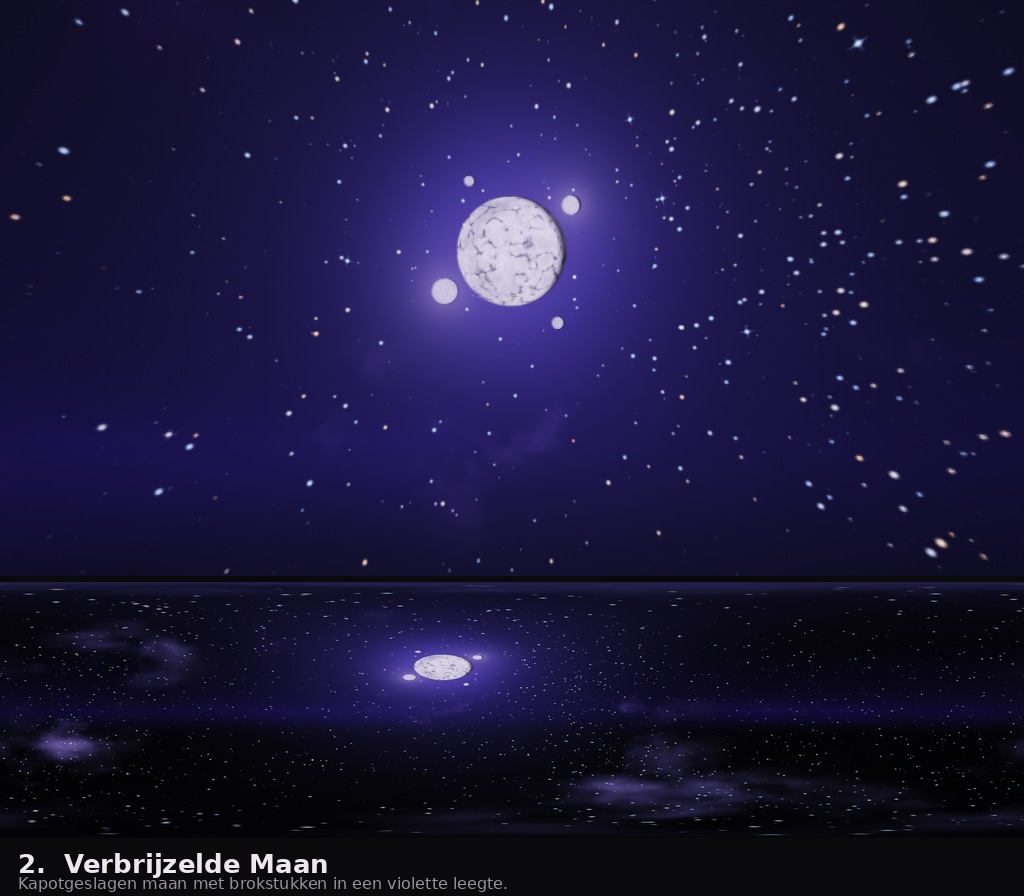
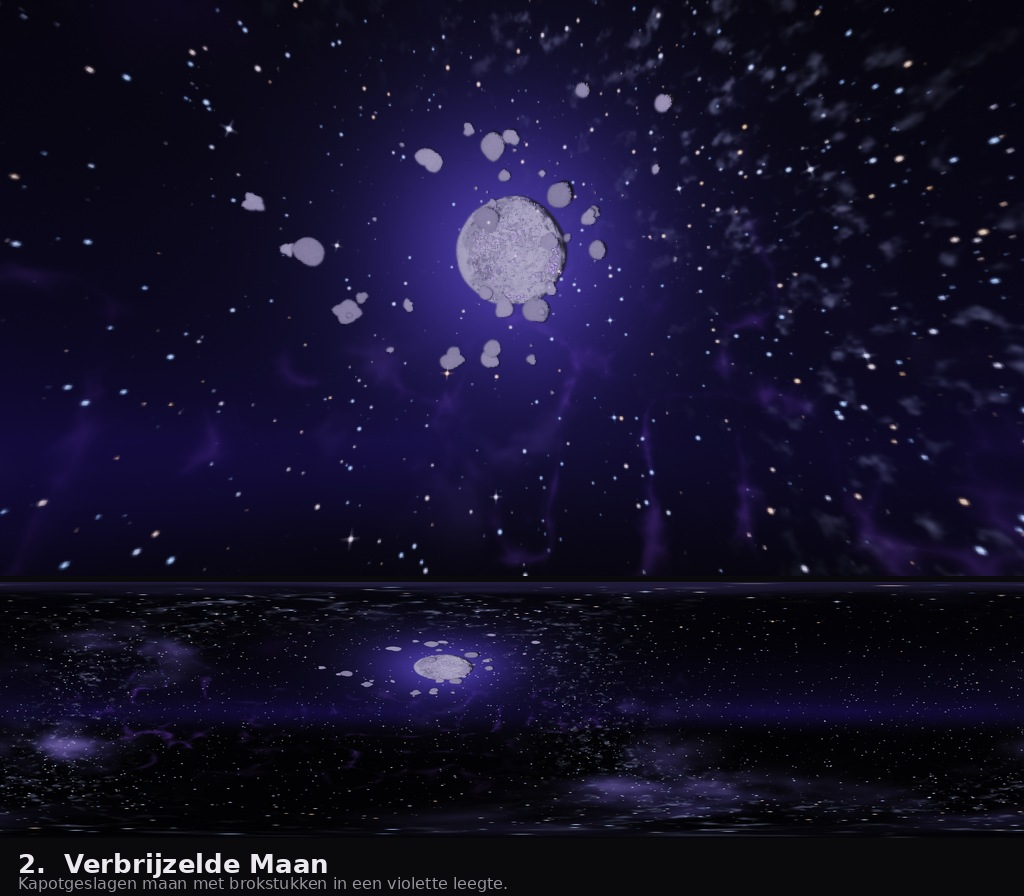
Flesh out the shattered moon sky and ship its cube faces
Detail work on the chosen concept, and the shading it needed:

* Moons get bump-mapped relief from a height field gradient, so craters
  are lit rather than painted. Two things had to be right: the finite
  difference step must stay inside one cell of the finest octave (a wider
  step samples uncorrelated noise and yields per-pixel speckle), and the
  height field needs a low gain or every octave contributes the same slope
  and the surface reads as sand.
* debris_field scatters chunks around a broken moon. They are ordinary
  moon dicts, so they inherit the lighting and relief, with faceted
  outlines from a linearly interpolated radius ring rather than a sum of
  sines. Their distances are measured from the moon's centre, so the inner
  radius has to clear the moon's own disc or the chunks land on its face.
* The broken body keeps light bleeding out through its fissures, and its
  exposure came down so the relief is not washed into flat white.
* Finer nebula wisps, unresolved-star grain inside the galactic band, and
  a second set of dust lanes breaking up the first.

Ships previews/shattered/ as six 1024px cube faces plus the panorama. The
seam test still passes on all twelve edges.

Claude-Session: https://claude.ai/code/session_01GdizL2WWVFGAuWhFgQQ98u

diff --git a/minecraft_sky/sky_generator.py b/minecraft_sky/sky_generator.py
@@ -233,21 +233,50 @@ def shade_nebula(col, d, cfg, aa, over=False):
     return col
 
 
+def _silhouette(phi, seed, amount, harmonics=8, facets=0):
+    """Wobble the radius of a disc so it reads as a rock, not a circle.
+
+    ``facets`` interpolates linearly between a ring of random radii, which
+    leaves straight edges and sharp corners - what broken rock looks like.
+    Without it the outline is a sum of sines: smooth lumps, right for a
+    body big enough for gravity to have rounded it off.
+    """
+    rng = np.random.default_rng(seed)
+    if facets:
+        radii = rng.uniform(-1.0, 1.0, facets).astype(np.float32)
+        k = (phi / (2 * np.pi) + 0.5) * facets
+        i0 = np.floor(k).astype(np.int32) % facets
+        t = k - np.floor(k)
+        return amount * (radii[i0] * (1 - t) + radii[(i0 + 1) % facets] * t)
+
+    out = np.zeros_like(phi)
+    weight = 0.0
+    for k in range(2, 2 + harmonics):
+        amp = rng.uniform(0.45, 1.0) / (k - 1) ** 0.6
+        out += amp * np.sin(k * phi + rng.uniform(0.0, 2 * np.pi))
+        weight += amp
+    return amount * out / weight
+
+
 def shade_moon(col, d, moon, aa):
     md = normalize(moon["dir"])
-    c = np.clip(d @ md, -1.0, 1.0)
-    ang = np.arccos(c)
+    c = d @ md
     r = math.radians(moon["radius"])
-
     glow = moon.get("glow", 0.0)
+
+    # Everything this moon can touch lies within `reach`. Most row blocks are
+    # nowhere near it, and skipping them is what makes a debris field of
+    # dozens of chunks affordable.
+    reach = r * (moon.get("glow_size", 6.0) * 2.6 if glow else 2.0) + 4 * aa
+    if float(c.max()) < math.cos(min(reach, math.pi)):
+        return col
+
+    ang = np.arccos(np.clip(c, -1.0, 1.0))
+
     if glow:
         halo = np.exp(-((ang / (r * moon.get("glow_size", 6.0))) ** 1.6)) * glow
         halo += np.exp(-((ang / (r * 1.8)) ** 2)) * glow * 1.7
         col += halo[..., None] * srgb_to_linear(moon.get("glow_color", moon["color"]))
-
-    disc = smoothstep(r + aa, r - aa, ang)
-    if not np.any(disc > 0.001):
-        return col
 
     up = np.array([0.0, 1.0, 0.0], np.float32)
     if abs(float(md @ up)) > 0.95:
@@ -256,12 +285,50 @@ def shade_moon(col, d, moon, aa):
     vax = np.cross(md, uax)
 
     sr = math.sin(r)
-    u = np.clip((d @ uax) / sr, -1.0, 1.0)
-    v = np.clip((d @ vax) / sr, -1.0, 1.0)
-    nz = np.sqrt(np.clip(1.0 - u * u - v * v, 0.0, 1.0))
-    nrm = uax * u[..., None] + vax * v[..., None] + md * nz[..., None]
+    u = (d @ uax) / sr
+    v = (d @ vax) / sr
 
-    shade = np.ones_like(u)
+    rad = 1.0
+    if moon.get("irregular"):
+        rad = 1.0 + _silhouette(np.arctan2(v, u), moon["seed"],
+                                moon["irregular"],
+                                facets=moon.get("facets", 0))
+
+    disc = smoothstep(r * rad + aa, r * rad - aa, ang)
+    if not np.any(disc > 0.001):
+        return col
+
+    un = np.clip(u / rad, -1.0, 1.0)
+    vn = np.clip(v / rad, -1.0, 1.0)
+    nz = np.sqrt(np.clip(1.0 - un * un - vn * vn, 0.0, 1.0))
+    nrm = uax * un[..., None] + vax * vn[..., None] + md * nz[..., None]
+
+    # Relief comes from bump mapping, not from painting light and dark on a
+    # smooth ball: craters only read as craters when their rims catch the
+    # light and their floors fall into shadow.
+    bump = moon.get("bump", 0.0)
+    if bump:
+        hs = moon.get("bump_scale", 14.0)
+        oct_ = moon.get("bump_octaves", 3)
+        # The finite difference has to stay well inside one cell of the
+        # finest octave, otherwise the two samples are uncorrelated and the
+        # "gradient" is just per-pixel noise. Dividing by hs keeps `bump`
+        # meaning the same thing at any feature size.
+        eps = 0.35 / (hs * 2 ** (oct_ - 1))
+        # A low gain keeps the big shapes in charge of the gradient. At
+        # gain 0.5 every octave contributes the same slope and the relief
+        # turns into sand.
+        hg = moon.get("bump_gain", 0.30)
+        rg = moon.get("bump_ridged", False)
+        kw = dict(octaves=oct_, gain=hg, ridged=rg)
+        h0 = fbm(nrm * hs, moon["seed"] + 91, **kw)
+        hu = fbm((nrm + uax * eps) * hs, moon["seed"] + 91, **kw)
+        hv = fbm((nrm + vax * eps) * hs, moon["seed"] + 91, **kw)
+        grad = ((hu - h0)[..., None] * uax + (hv - h0)[..., None] * vax) / eps
+        nrm = nrm - (bump / hs) * grad
+        nrm /= np.linalg.norm(nrm, axis=-1, keepdims=True)
+
+    shade = np.ones_like(un)
     if moon.get("light") is not None:  # crescent / gibbous terminator
         ld = normalize(moon["light"])
         shade = smoothstep(-0.12, 0.25, nrm @ ld)
@@ -273,10 +340,16 @@ def shade_moon(col, d, moon, aa):
     if tex:
         craters = fbm(nrm * moon.get("texture_scale", 9.0), moon["seed"], octaves=5)
         shade *= 1.0 - tex * (1.0 - craters)
+    fine = moon.get("fine_texture", 0.0)
+    if fine:  # the pitting you only see once the moon is big on screen
+        f2 = fbm(nrm * moon.get("fine_scale", 30.0), moon["seed"] + 7, octaves=4)
+        shade *= 1.0 - fine * (1.0 - f2)
     maria = moon.get("maria", 0.0)
     if maria:  # big dark seas, the shapes you read from the ground
         m = fbm(nrm * moon.get("maria_scale", 2.0), moon["seed"] + 55, octaves=3)
         shade *= 1.0 - maria * smoothstep(0.44, 0.74, m)
+
+    cr = None
     cracks = moon.get("cracks", 0.0)
     if cracks:
         cr = fbm(nrm * moon.get("crack_scale", 5.0), moon["seed"] + 21,
@@ -286,7 +359,51 @@ def shade_moon(col, d, moon, aa):
     body = (disc * shade * moon.get("brightness", 1.0))[..., None] * srgb_to_linear(
         moon["color"]
     )
+    emit = moon.get("crack_glow", 0.0)
+    if emit and cr is not None:  # light still leaking out of the fractures
+        core = smoothstep(0.80, 0.99, cr) * disc * emit
+        body = body + core[..., None] * srgb_to_linear(
+            moon.get("crack_color", (168, 140, 255))
+        )
     return col * (1.0 - disc[..., None]) + body
+
+
+def debris_field(centre, count, seed, inner=1.5, outer=7.0, size=(0.22, 2.0),
+                 spread=1.7, flatten=0.5, **common):
+    """Chunks scattered around a broken moon, thinning out with distance.
+
+    ``inner`` and ``outer`` are degrees from the moon's centre, so ``inner``
+    has to clear the moon's own radius or the chunks end up painted on top
+    of its face. ``flatten`` squashes the field across one axis, which reads
+    as debris strung out along the orbit rather than a uniform halo.
+
+    Each chunk is an ordinary moon dict, so it picks up the same lighting,
+    cratering and irregular silhouette as the body it came off.
+    """
+    rng = np.random.default_rng(seed)
+    cd = normalize(centre)
+    up = np.array([0.0, 1.0, 0.0], np.float32)
+    if abs(float(cd @ up)) > 0.95:
+        up = np.array([0.0, 0.0, 1.0], np.float32)
+    uax = normalize(np.cross(up, cd))
+    vax = np.cross(cd, uax)
+
+    out = []
+    for _ in range(count):
+        phi = rng.uniform(0.0, 2 * math.pi)
+        squash = math.hypot(math.cos(phi), flatten * math.sin(phi))
+        dist = math.radians(
+            inner + (outer - inner) * rng.random() ** spread * squash)
+        off = uax * math.cos(phi) + vax * math.sin(phi)
+        chunk = dict(common)
+        chunk["dir"] = normalize(cd * math.cos(dist) + off * math.sin(dist))
+        chunk["radius"] = size[0] + (size[1] - size[0]) * rng.random() ** 2.4
+        chunk["seed"] = int(rng.integers(1, 10 ** 6))
+        chunk["irregular"] = float(rng.uniform(0.16, 0.34))
+        chunk["facets"] = int(rng.integers(6, 11))
+        chunk["brightness"] = common.get("brightness", 1.0) * rng.uniform(0.8, 1.15)
+        out.append(chunk)
+    return out
 
 
 def shade_aurora(col, d, lat, lon, cfg):
@@ -613,15 +730,30 @@ CONCEPTS["shattered"] = {
          "lo": 0.50, "hi": 0.93, "power": 2.0, "strength": 0.15,
          "color": (48, 20, 104), "color2": (142, 76, 220),
          "coverage_scale": 0.8, "cov_lo": 0.48, "cov_hi": 0.84},
+        # wisps riding on the big masses, so the gas keeps reading as gas
+        # when the player looks straight at it
+        {"seed": 211, "scale": 5.2, "warp": 0.35, "octaves": 4, "gain": 0.42,
+         "ridged": True, "lo": 0.54, "hi": 0.94, "power": 2.2, "strength": 0.10,
+         "color": (70, 34, 150), "color2": (186, 132, 255),
+         "coverage_scale": 0.9, "cov_lo": 0.50, "cov_hi": 0.86},
         # the galactic band: bright core, cold edges
         {"seed": 241, "scale": 2.4, "warp": 0.30, "octaves": 4, "gain": 0.48,
          "band_axis": (0.86, 0.22, -0.46), "band_width": 0.30,
          "lo": 0.44, "hi": 0.90, "power": 1.6, "strength": 0.26,
          "color": (58, 52, 138), "color2": (192, 176, 255)},
+        # unresolved stars: fine grain inside the band, not a smooth wash
+        {"seed": 261, "scale": 30.0, "octaves": 3, "gain": 0.55,
+         "band_axis": (0.86, 0.22, -0.46), "band_width": 0.24,
+         "lo": 0.50, "hi": 0.84, "power": 1.5, "strength": 0.11,
+         "color": (120, 122, 170), "color2": (216, 220, 255)},
         # dust lanes cutting through the band
         {"seed": 281, "scale": 3.6, "warp": 0.45, "octaves": 4, "mode": "mul",
          "band_axis": (0.86, 0.22, -0.46), "band_width": 0.20,
          "lo": 0.46, "hi": 0.90, "strength": 0.65},
+        # finer dark filaments across the band, breaking the big lanes up
+        {"seed": 287, "scale": 8.0, "warp": 0.40, "octaves": 4, "mode": "mul",
+         "band_axis": (0.86, 0.22, -0.46), "band_width": 0.22,
+         "lo": 0.54, "hi": 0.94, "strength": 0.45},
         # low violet haze, no heavy deck - this sky should feel empty
         {"seed": 291, "scale": 2.6, "warp": 0.45, "octaves": 5, "gain": 0.5,
          "mode": "cloud", "over": True, "lo": 0.52, "hi": 0.86,
@@ -631,27 +763,27 @@ CONCEPTS["shattered"] = {
          "rim": 0.14, "rim_size": 60, "rim_color": (176, 150, 255)},
     ],
     "moons": [
-        {"dir": direction(30, -24), "radius": 9.0, "color": (206, 196, 240),
-         "brightness": 1.10, "glow": 0.16, "glow_size": 4.5,
-         "glow_color": (110, 96, 190), "texture": 0.45, "texture_scale": 8.0, "maria": 0.30,
-         "cracks": 0.80, "crack_scale": 4.0, "light": direction(22, -50),
-         "ambient": 0.10, "seed": 3},
-        {"dir": direction(37, -12), "radius": 1.5, "color": (190, 178, 226),
-         "brightness": 1.1, "glow": 0.05, "glow_size": 4.0, "texture": 0.5,
-         "light": direction(22, -50), "ambient": 0.08, "seed": 4},
-        {"dir": direction(23, -36), "radius": 2.1, "color": (186, 174, 224),
-         "brightness": 1.1, "glow": 0.05, "glow_size": 4.0, "texture": 0.5,
-         "light": direction(22, -50), "ambient": 0.08, "seed": 5},
-        {"dir": direction(18, -16), "radius": 1.0, "color": (180, 170, 220),
-         "brightness": 1.0, "texture": 0.5, "light": direction(22, -50),
-         "ambient": 0.08, "seed": 6},
-        {"dir": direction(41, -33), "radius": 0.8, "color": (180, 170, 220),
-         "brightness": 1.0, "texture": 0.5, "light": direction(22, -50),
-         "ambient": 0.08, "seed": 7},
-    ],
+        # the broken body itself: lumpy rim, deep fissures, and light still
+        # bleeding out of the core through them
+        {"dir": direction(30, -24), "radius": 9.0, "color": (172, 166, 202),
+         "brightness": 0.68, "glow": 0.13, "glow_size": 2.6,
+         "glow_color": (110, 96, 190), "texture": 0.18, "texture_scale": 8.0,
+         "fine_texture": 0.10, "fine_scale": 34.0, "maria": 0.34,
+         "bump": 0.52, "bump_scale": 7.5, "bump_octaves": 3, "bump_gain": 0.26,
+         "irregular": 0.05, "cracks": 0.72, "crack_scale": 3.0,
+         "crack_glow": 0.85, "crack_color": (182, 150, 255),
+         "light": direction(22, -50), "ambient": 0.10, "seed": 3},
+    ] + debris_field(
+        direction(30, -24), 54, seed=4242, inner=5.5, outer=42.0,
+        size=(0.16, 2.3), spread=1.35, flatten=0.45,
+        color=(150, 144, 178), brightness=0.62, texture=0.22,
+        texture_scale=9.0, fine_texture=0.14, fine_scale=30.0,
+        bump=0.50, bump_scale=9.0, bump_octaves=3, bump_gain=0.28,
+        light=direction(22, -50), ambient=0.05, limb=0.30,
+    ),
     "horizon_glow": {"color": (52, 34, 110), "height": 0.11, "strength": 0.11,
                      "patchy": True, "patch_scale": 1.0, "seed": 29},
-    "stars": {"count": 11000, "brightness": 1.0, "falloff": 3.4, "size": 0.44,
+    "stars": {"count": 15000, "brightness": 1.0, "falloff": 3.6, "size": 0.40,
               "warm": (255, 214, 176), "cool": (172, 198, 255), "warm_bias": 2.4,
               "bright_frac": 0.005, "spikes": 0.65,
               "cluster_axis": (0.86, 0.22, -0.46), "cluster_width": 0.30,

diff --git a/minecraft_sky/README.md b/minecraft_sky/README.md
@@ -24,8 +24,19 @@ projected onto cube faces. Nothing is painted by hand:
 * **Cloud decks** are banded around an elevation, occlude what is behind
   them, and pick up rim light from the sky's key light. Decks flagged
   `over` are drawn after the moons, so a bank of ash can veil the moon.
-* **Moons** are analytic: limb darkening, crater and mare texture, optional
-  phase terminator and cracks.
+* **Moons** are analytic: limb darkening, maria, phase terminator, cracks
+  that still leak light, and bump-mapped relief. The relief is a real
+  finite-difference gradient of a height field, so craters catch the light
+  on one rim and fall into shadow on the other instead of being painted on.
+  Two details matter when tuning it: the difference step has to stay well
+  inside one cell of the finest octave, and the height field wants a low
+  `bump_gain` or every octave contributes the same slope and the surface
+  turns to sand.
+* **Debris fields** (`debris_field`) scatter chunks around a broken moon.
+  Each chunk is an ordinary moon dict, so it inherits the same lighting and
+  relief, with a faceted outline instead of a smooth one. Note that a
+  chunk's normal space is a full sphere no matter how small it looks, so
+  its texture scales belong in the same range as the moon's.
 * **Stars** are splatted with latitude-compensated kernels, so they stay
   round after the cube projection instead of smearing near the poles.
 
@@ -64,6 +75,26 @@ so check yours before shipping and rotate if needed.
 ```bash
 python3 test_cube_seams.py
 ```
+
+A body near the corner of a face looks stretched when you open the PNG on
+its own. That is the cube projection doing its job - the skybox undoes it
+and the moon is round again in game.
+
+## Shipped assets
+
+`previews/shattered/` holds the chosen sky as six 1024px cube faces, and
+`previews/shattered_panorama_4096.jpg` is the same sky as one panorama.
+Everything is reproducible from the generator, which is why the lossless
+panorama is not committed:
+
+```bash
+python3 sky_generator.py shattered --width 4096 --faces --face-size 2048
+```
+
+Face size is a judgement call rather than a quality ceiling: at 1024 the
+moon lands about 230px across, at 2048 about 460px, and the relief and the
+fissures are worth the bigger faces only if the moon is meant to be looked
+at rather than glanced at.
 
 ## Tuning
 
